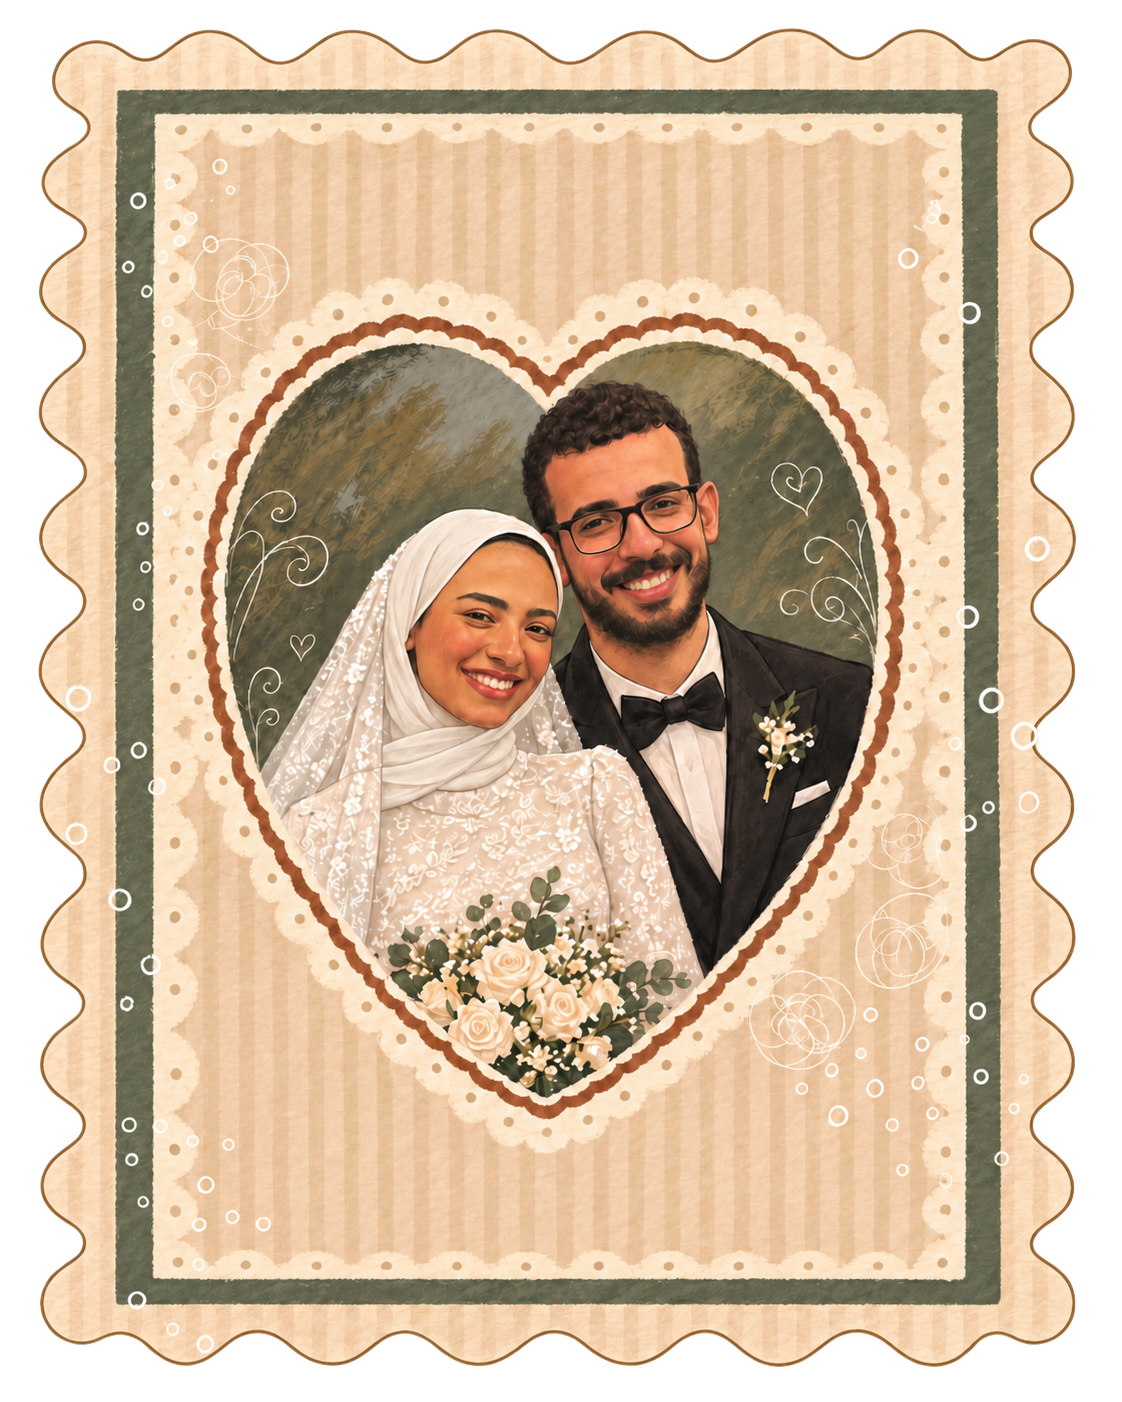
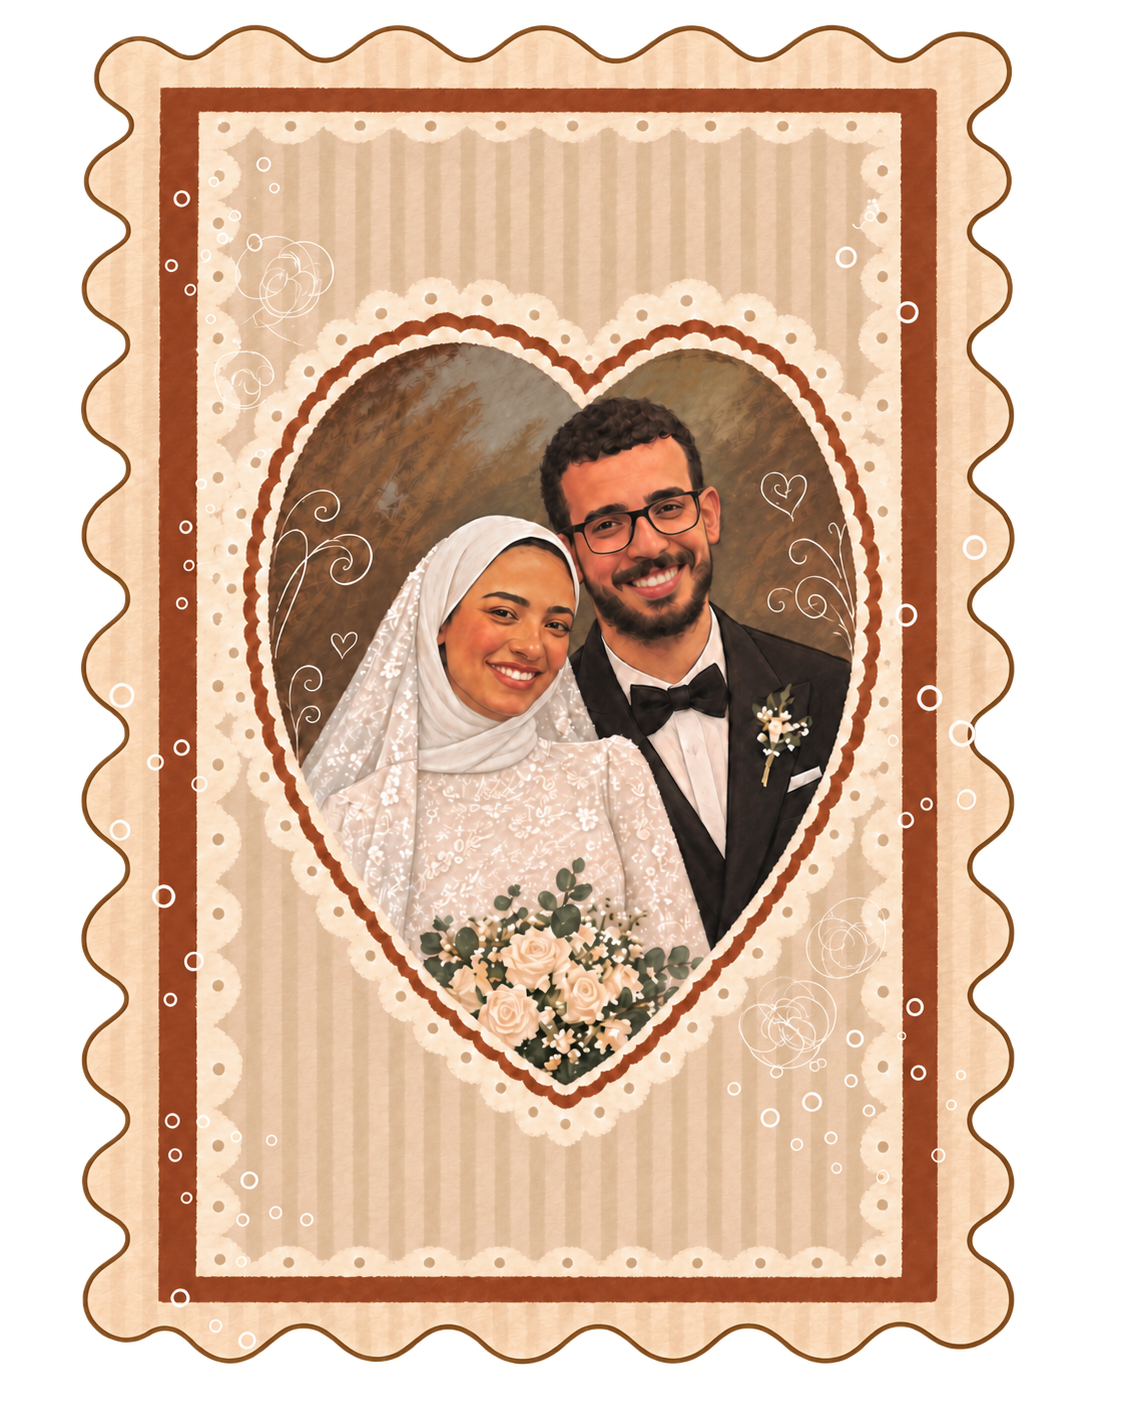
Update couple names styling in CSS for improved layout

diff --git a/src/styles.css b/src/styles.css
@@ -863,7 +863,8 @@ a { -webkit-tap-highlight-color: transparent; }
   }
 
   .couple-names .ampersand {
-    margin: 0.22em 0 0.14em;
+    margin: 0;
+    font-size: 0.7em;
   }
 
   .invitation-copy {
